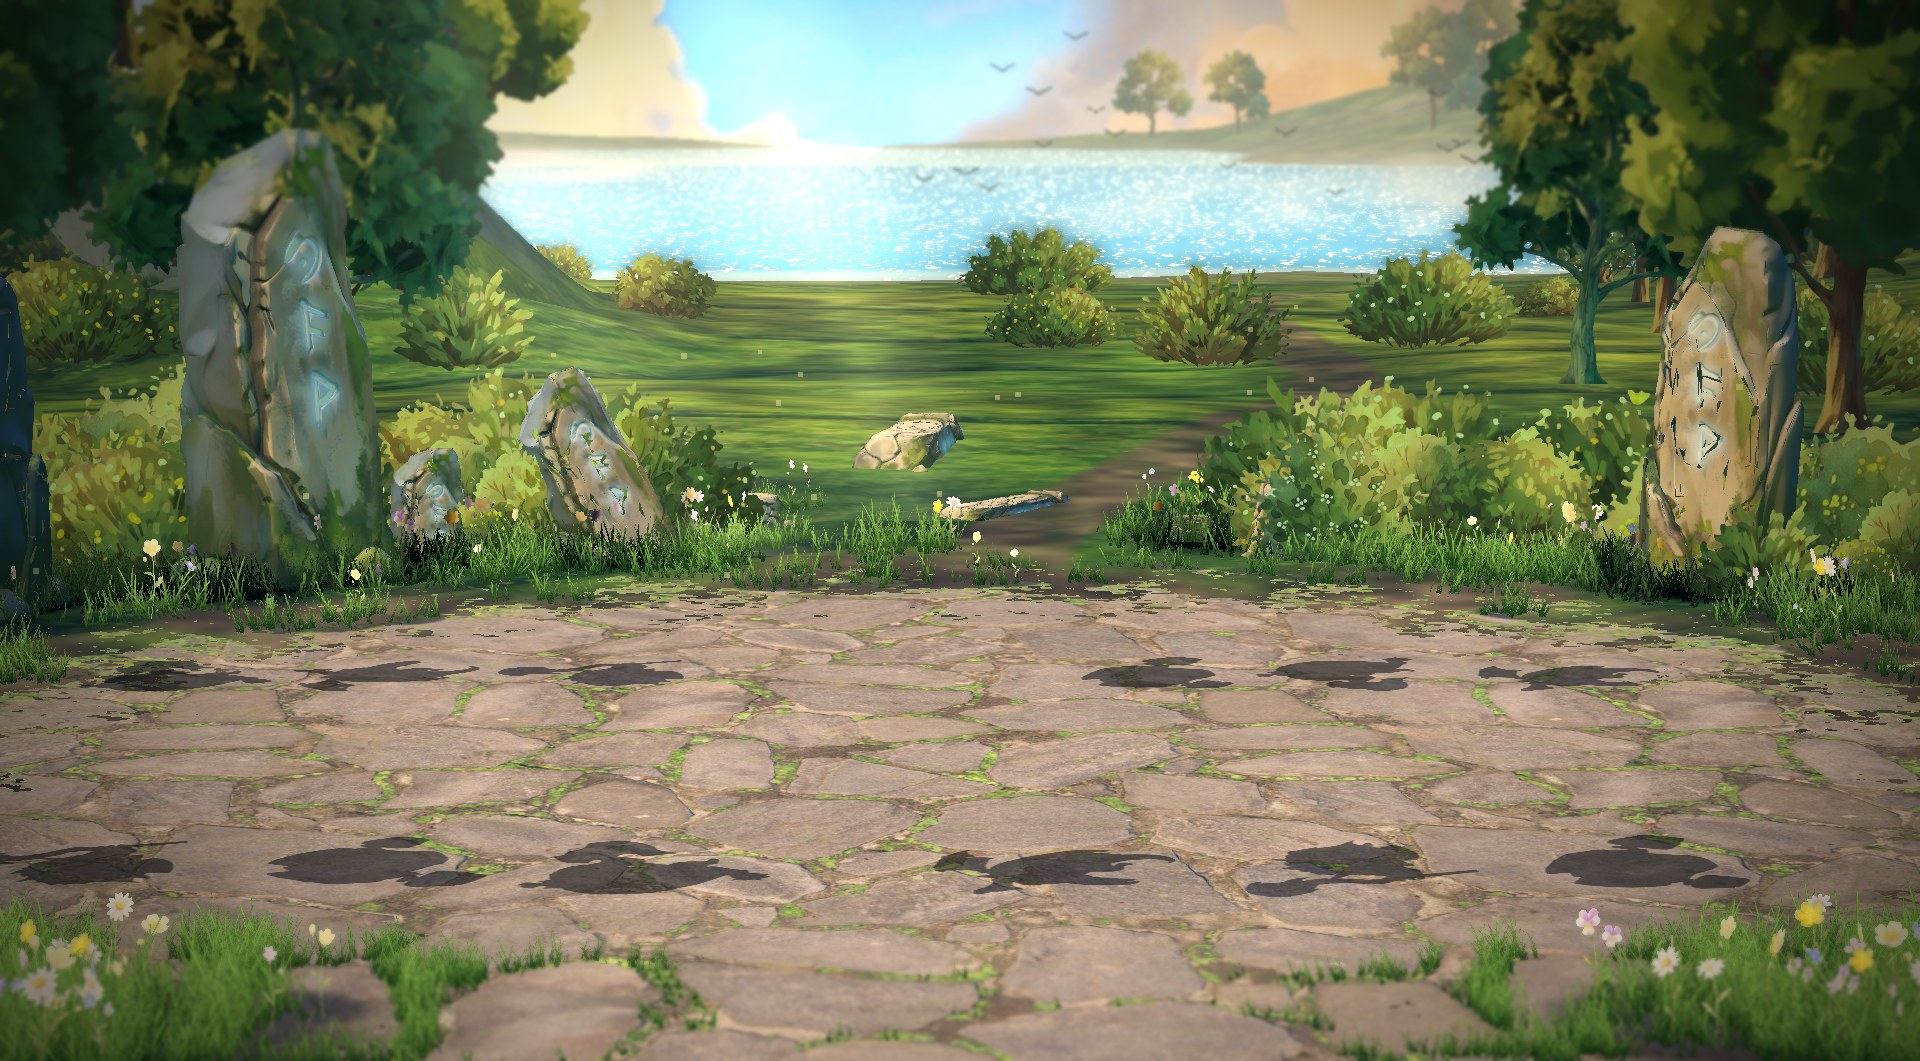
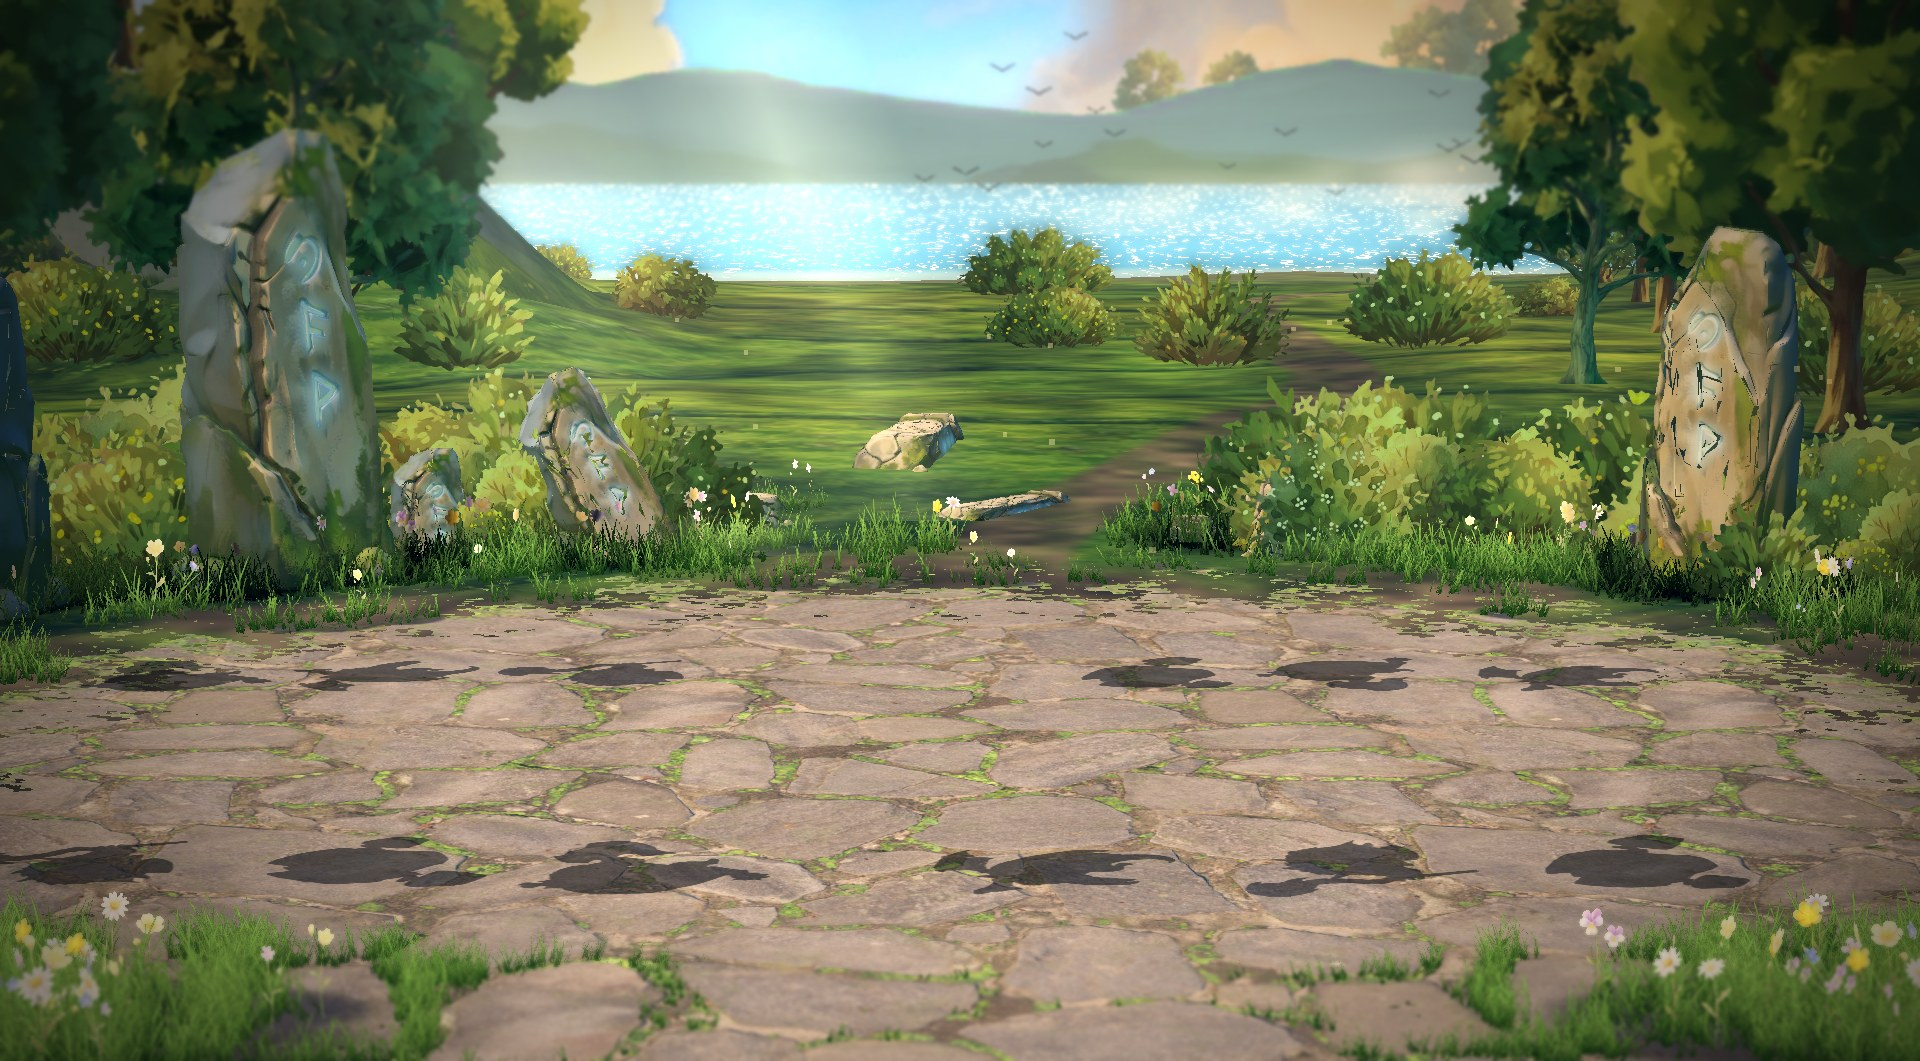
set 237: owner asked for the r36 backdrop behind the lake (hc2=1), r37 re-baked

diff --git a/claude/plan-set237.md b/claude/plan-set237.md
@@ -12,6 +12,8 @@ Security line (HARD RULE 9): same as set 236. Only the owner's AI trees/bushes, 
 4. [ ] **Owner decision (conflict):** art-style §8 ban (owner, 7 Nov) = "meadow + big trees with light shafts + winding stream + dirt path in the middle of the frame". r37 has the back path in mid-frame (no stream; the sun-shaft card from r36 is still there). Stills: `claude/preview-set237/r37-game.jpg` (path) vs `r37-game-nopath.jpg`.
 5. [ ] After the pick: rule-change art-style §8 (r37 = the arena, ban wording) + re-bake if the path changes → plan-set236 step 4 uses `arena_r37` instead of `arena_r36`.
 
+- Owner 15 Nov: backdrop behind the lake back like r36 (far hills card `hc2=1`) → re-baked.
+
 ## Known gaps
 - With the 8.5° camera, mountains above ~15 m sit above the top of the frame; only their feet show (the owner kept the camera).
 - Overhead views show horizontal shadow stripes on the far ground (shadow cascades on the displaced terrain; not in the game view).
